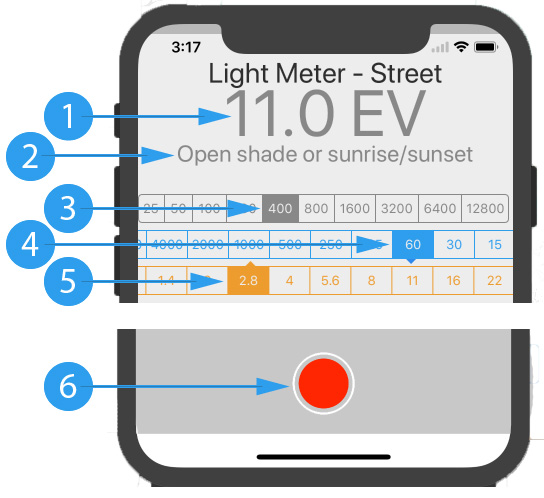
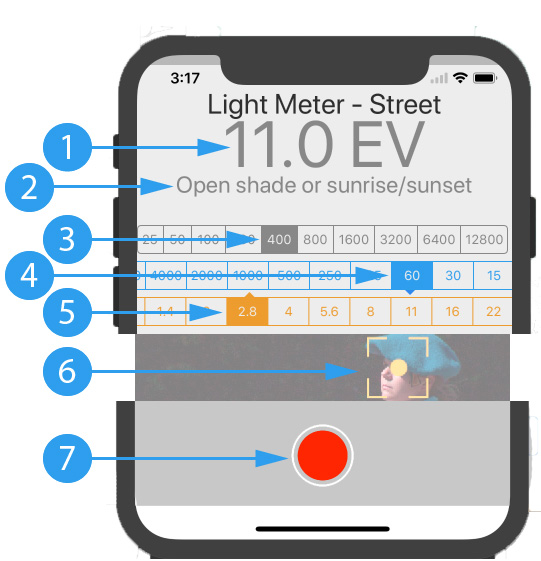
Added spot metering

diff --git a/_posts/2017-10-25-the-user-interface-de.md b/_posts/2017-10-25-the-user-interface-de.md
@@ -23,7 +23,9 @@ So kann man mit etwas Übung seine Einstellungen von dem Lichtwert ableiten und 
 
 5. Die Blendenzahl Achse. Auch diese Achse passt sich automatisch der aktuellen Messung an. Ich empfehle hier die kleinste Blendenzahl Ihrer Linse einzustellen, denn so können sie schnell erkennen ob die aktuelle Situation genügend Licht für ihre verwendete Linse bereithält. Bei einer 1.8 Blendenzahl würde ich die Markierung auf 2.0 setzen.
 
-6. Der Messknopf. Mit diesem Knopf aktivieren Sie die kontinuierliche Messung der Belichtung oder frieren die aktuelle Messung ein. Tipp: Wenn Sie nicht messen spart dies strom und verlängert die Restlaufzeit.
+6. Spotmessung. Drücken Sie auf das Bild um an dieser Position eine Spotmessung vorzunehmen. Wenn Sie auf erneut auf das Symbol drücken wird die normale Messung wieder aktiviert. Eine Spotmessung hilft zum Beispiel um Schatten aufzuhellen oder low-key Aufnahmen zu erstellen, wenn Sie auf hellere Stellen drücken.
+
+7. Der Messknopf. Mit diesem Knopf aktivieren Sie die kontinuierliche Messung der Belichtung oder frieren die aktuelle Messung ein. Tipp: Wenn Sie nicht messen spart dies strom und verlängert die Restlaufzeit.
 
 Alle Verschlusszeiten und Blendenzahlen die übereinanderstehen sind gültige Einstellungen für die aktuelle Messung. Wenn Sie das Bild von oben genauer ansehen werden Sie feststellen, dass die folgenden Kombinationen für die Messung verwendet werden können.
 

diff --git a/_posts/2017-10-25-the-user-interface.md b/_posts/2017-10-25-the-user-interface.md
@@ -20,7 +20,9 @@ The goal of the user interface is to have a very simple user interface with basi
 
 5. The aperture scale. It moves just like te time scale with the current management. Also an aperture can be set here. I often select the minimal aperture. E.g. on my 1.7 range finder I'd select the 2.0 field.
 
-6. The measure button. Press to make continuous readings. Press again, will stop the camera and show you the last measurement taken.
+6. Spot metering. Press anywhere on the camera image in order to spot meter this area. Pressing on the spot meter icon again will return to normal metering. This functionality helps you to measure for the shadows or create low-key images if you press on light areas.
+
+7. The measure button. Press to make continuous readings. Press again, will stop the camera and show you the last measurement taken.
 Hint: The camera consumes battery life, so better stop reading when done.
 
 For reading just use combinations that are above each other. If you inspect the image above you see the following valid exposure combinations and all of them lead to the very same exposure.
